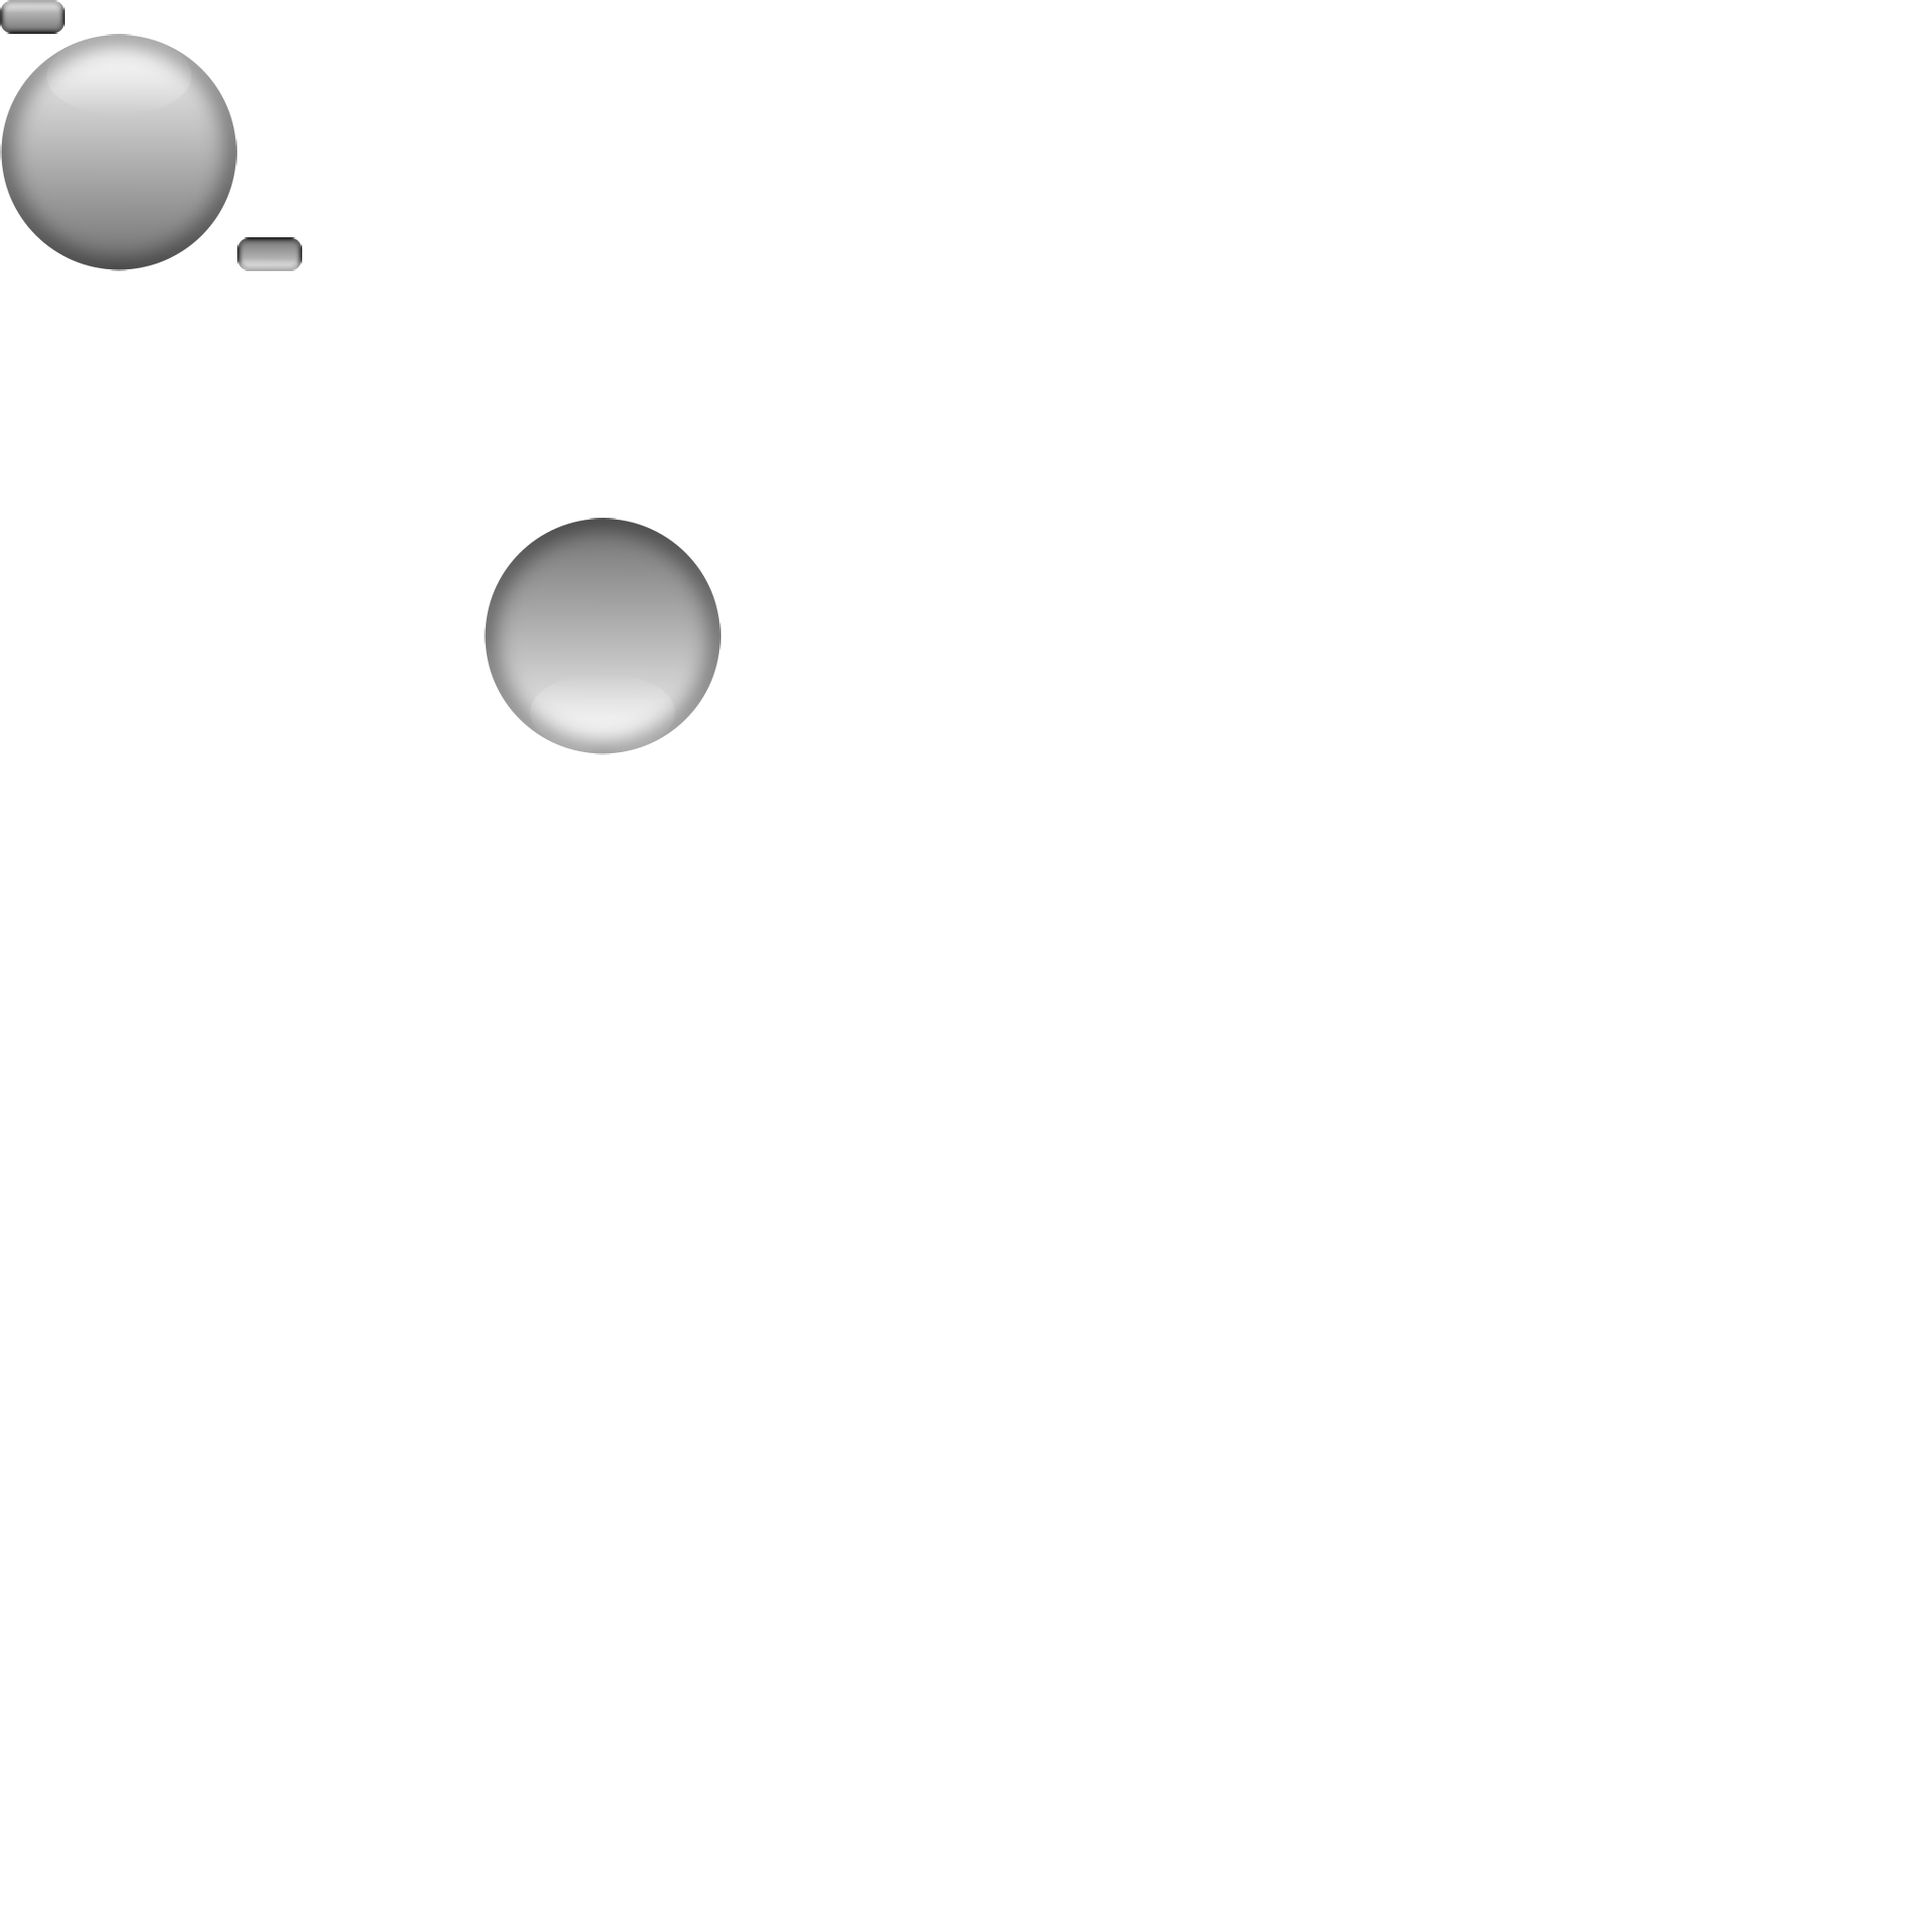
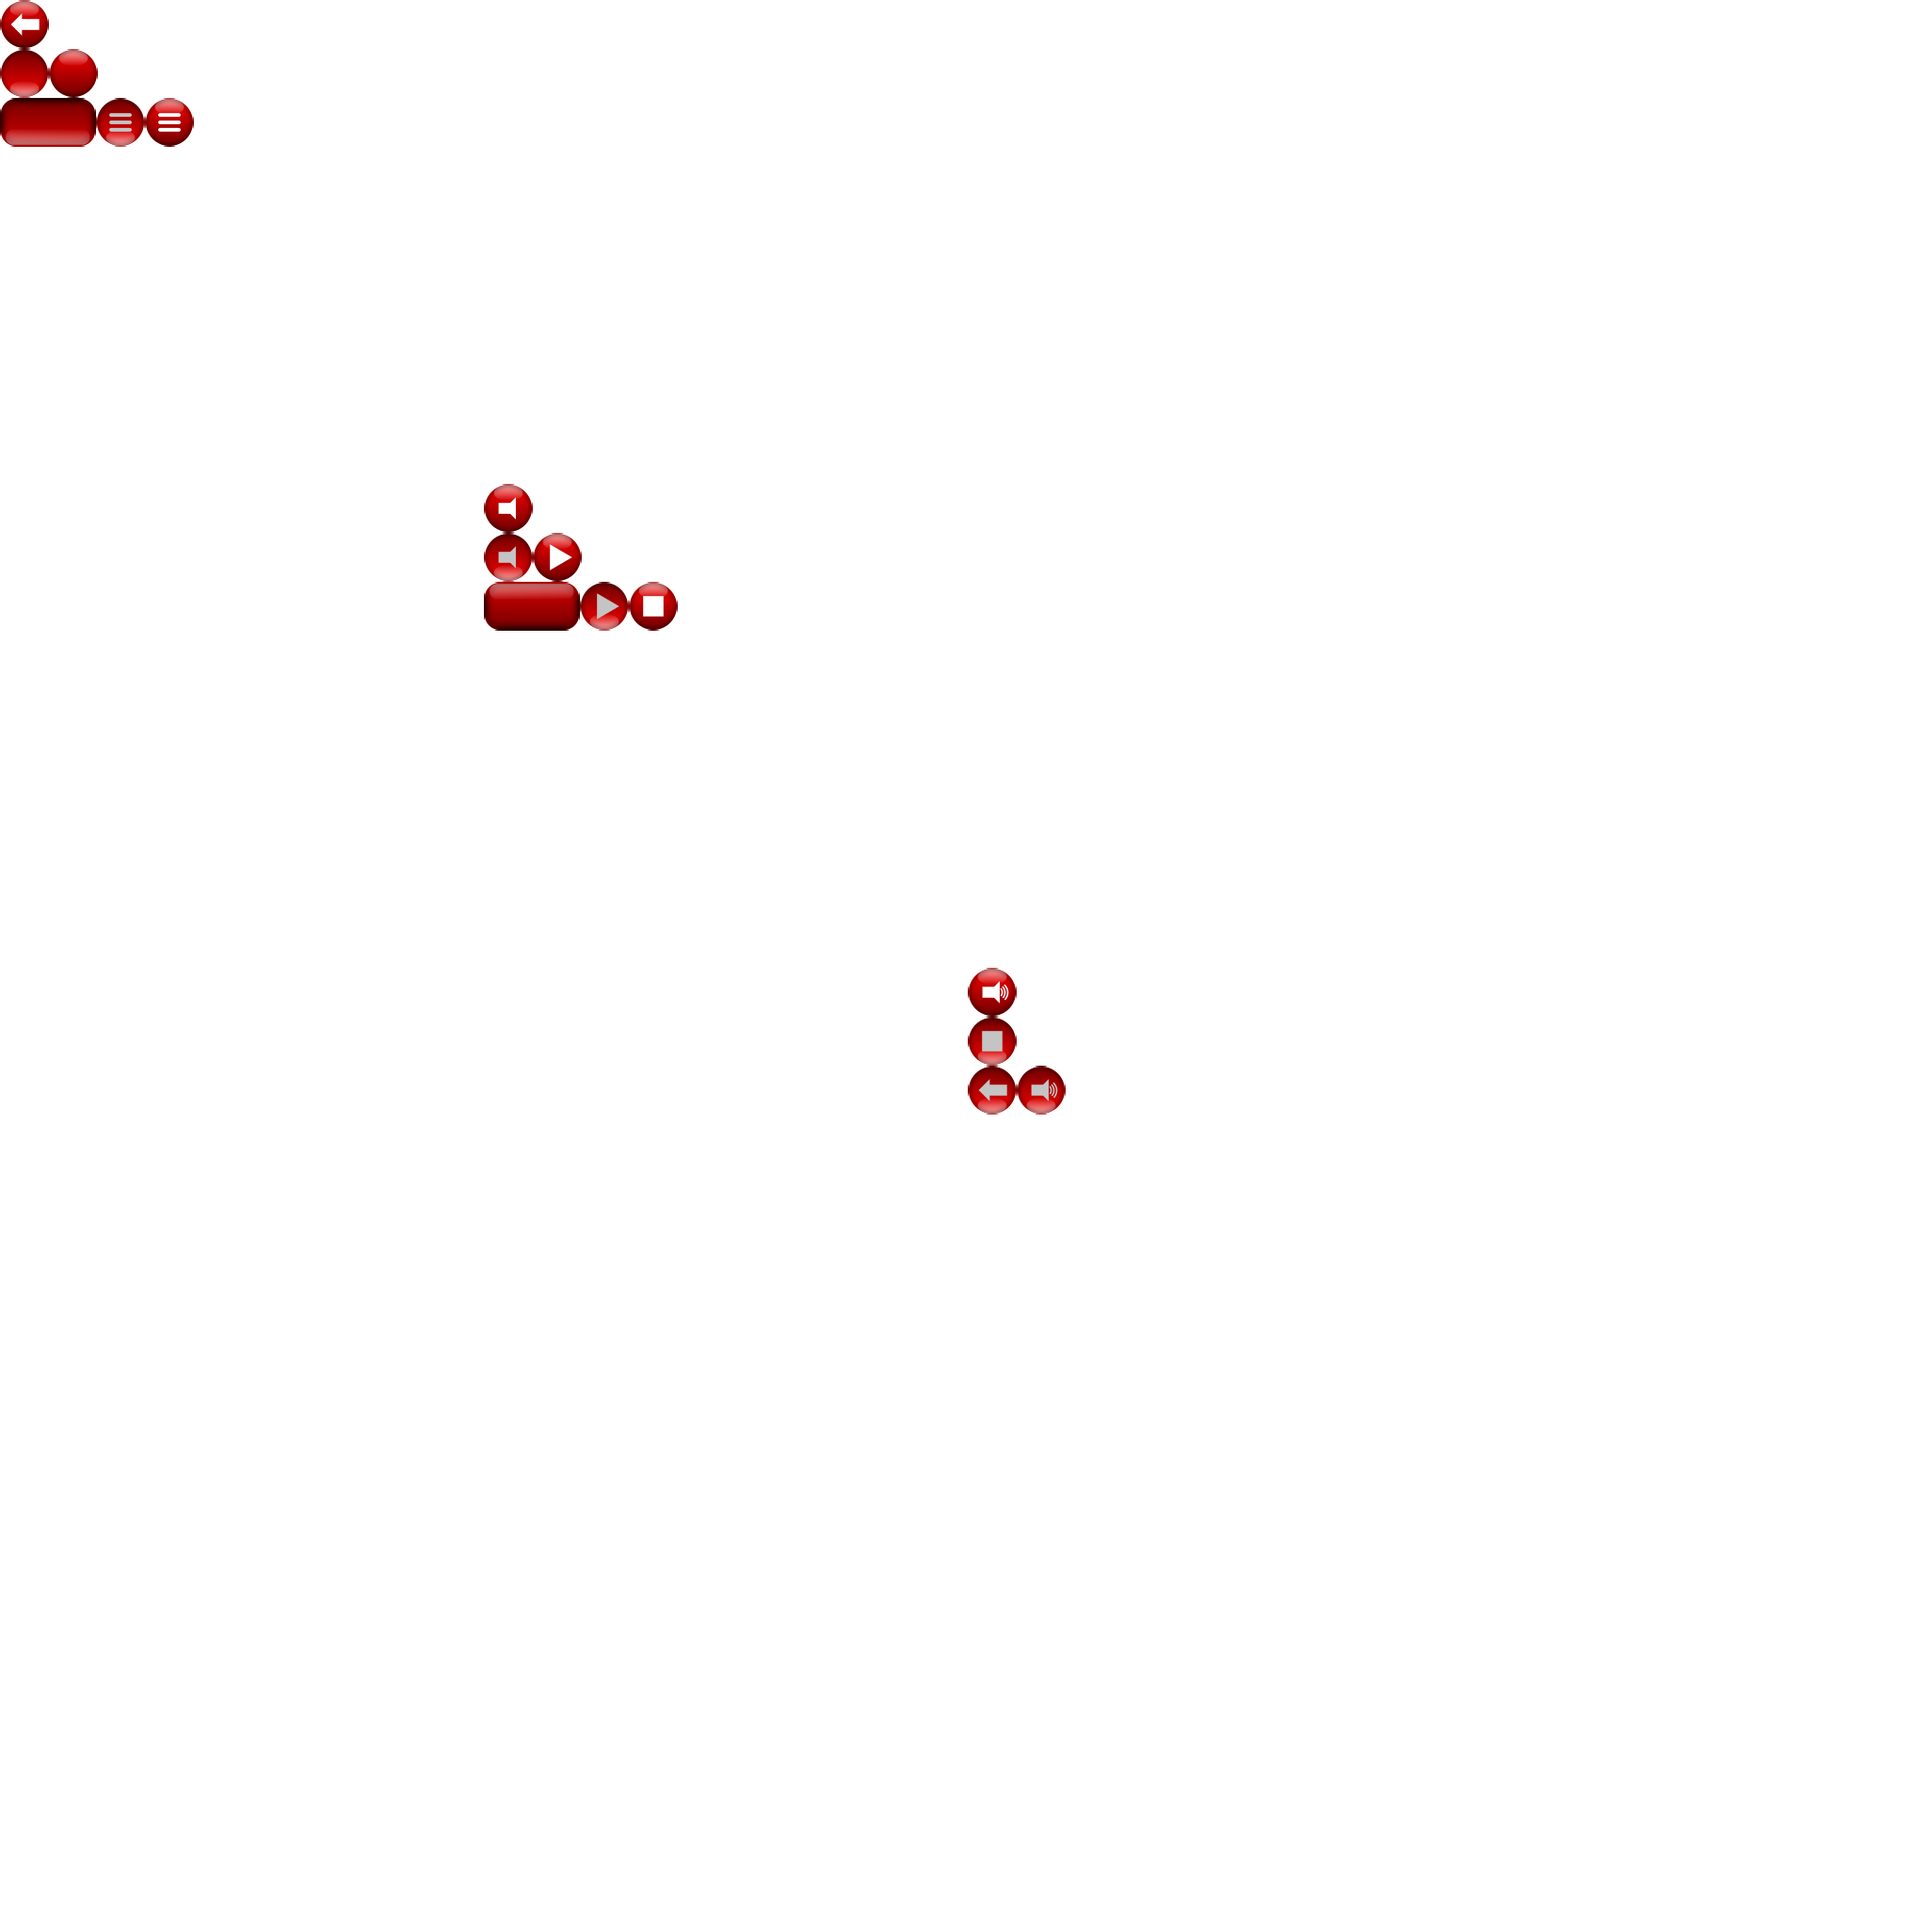
abandoned ImageButtons and tinted buttons.

diff --git a/core/src/com/oduratereptile/game/MainMenuScreen.java b/core/src/com/oduratereptile/game/MainMenuScreen.java
@@ -6,6 +6,7 @@ import com.badlogic.gdx.graphics.GL20;
 import com.badlogic.gdx.graphics.OrthographicCamera;
 import com.badlogic.gdx.scenes.scene2d.InputEvent;
 import com.badlogic.gdx.scenes.scene2d.Stage;
+import com.badlogic.gdx.scenes.scene2d.ui.Button;
 import com.badlogic.gdx.scenes.scene2d.ui.Image;
 import com.badlogic.gdx.scenes.scene2d.ui.ImageButton;
 import com.badlogic.gdx.scenes.scene2d.ui.TextButton;
@@ -29,30 +30,30 @@ public class MainMenuScreen extends Stage implements Screen {
         camera = new OrthographicCamera();
         camera.setToOrtho(false, MyPuzzle.SCREENSIZEX, MyPuzzle.SCREENSIZEY);
 
-        final TextButton button = new TextButton("Click me", game.skin, "blue");
-        button.setWidth(300f);
-        button.setHeight(40f);
-        button.setPosition(MyPuzzle.SCREENSIZEX/2f - 150f, MyPuzzle.SCREENSIZEY/2f - 20f);
-        button.addListener(new ClickListener(){
+        final TextButton textbutton = new TextButton("Click me", game.skin);
+        textbutton.setWidth(300f);
+        textbutton.setHeight(40f);
+        textbutton.setPosition(MyPuzzle.SCREENSIZEX/2f - 150f, MyPuzzle.SCREENSIZEY/2f - 20f);
+        textbutton.addListener(new ClickListener(){
             @Override
             public void clicked(InputEvent event, float x, float y){
-                button.setText("You clicked the button");
+                textbutton.setText("You clicked the button");
             }
         });
-        addActor(button);
+        addActor(textbutton);
 
-        ImageButton ibutton = new ImageButton(game.skin, "blue");
-        ibutton.setWidth(60f);
-        ibutton.setHeight(60f);
-        ibutton.setPosition(MyPuzzle.SCREENSIZEX/2f - 80f, MyPuzzle.SCREENSIZEY/2f - 160f);
-        ibutton.addListener(new ClickListener(){
+        Button button = new Button(game.skin, "default");
+        button.setWidth(60f);
+        button.setHeight(60f);
+        button.setPosition(MyPuzzle.SCREENSIZEX/2f - 80f, MyPuzzle.SCREENSIZEY/2f - 160f);
+        button.addListener(new ClickListener(){
             @Override
             public void clicked(InputEvent event, float x, float y){
                 game.setScreen(new GameScreen(game));
                 dispose();
             }
         });
-        addActor(ibutton);
+        addActor(button);
     }
 
     @Override

diff --git a/core/src/com/oduratereptile/game/GameScreen.java b/core/src/com/oduratereptile/game/GameScreen.java
@@ -1,6 +1,7 @@
 package com.oduratereptile.game;
 
 import com.badlogic.gdx.scenes.scene2d.InputEvent;
+import com.badlogic.gdx.scenes.scene2d.ui.Button;
 import com.badlogic.gdx.scenes.scene2d.ui.ImageButton;
 import com.badlogic.gdx.scenes.scene2d.utils.ClickListener;
 import static com.oduratereptile.game.HudScreen.Corner.*;
@@ -13,21 +14,29 @@ public class GameScreen extends HudScreen {
     public GameScreen(final MyPuzzle game) {
         super(game);
 
-        ImageButton ibutton = new ImageButton(game.skin, "blue");
-        ibutton.addListener(new ClickListener(){
+        debugHUD(false);
+
+        Button button = new Button(game.skin, "leftarrow");
+        button.addListener(new ClickListener(){
             @Override
             public void clicked(InputEvent event, float x, float y){
                 game.setScreen(new MainMenuScreen(game));
                 dispose();
             }
         });
-        getTable(LR).add(ibutton).width(40f).height(40f);
+        getTable(LR).add(button).width(40f).height(40f);
     }
 
     @Override
     public void render(float delta) {
         super.render(delta);
-
+//    next steps:
+//        (1) add ortho camera and panning/zoom (add a Pixmap for testing)
+//        (2) Catmull-Rom splines <-- actually, this is a separate class
+//        (3) "load an image" dialog
+//        (4) "invite a friend" dialog
+//        (5) "view full image" window
+//        (6) chat area
     }
 
     @Override

diff --git a/core/src/com/oduratereptile/game/HudScreen.java b/core/src/com/oduratereptile/game/HudScreen.java
@@ -71,6 +71,14 @@ public class HudScreen implements Screen {
         table_root.row();
     }
 
+    public void debugHUD(boolean enable) {
+        stage.setDebugAll(enable);
+    }
+
+    public void debugHUD() {
+        debugHUD(true);
+    }
+
     public enum Corner {UL, UR, LL, LR, ROOT};
 
     public <T extends Actor> Cell<T> HUDadd(Corner corner, T actor) {
